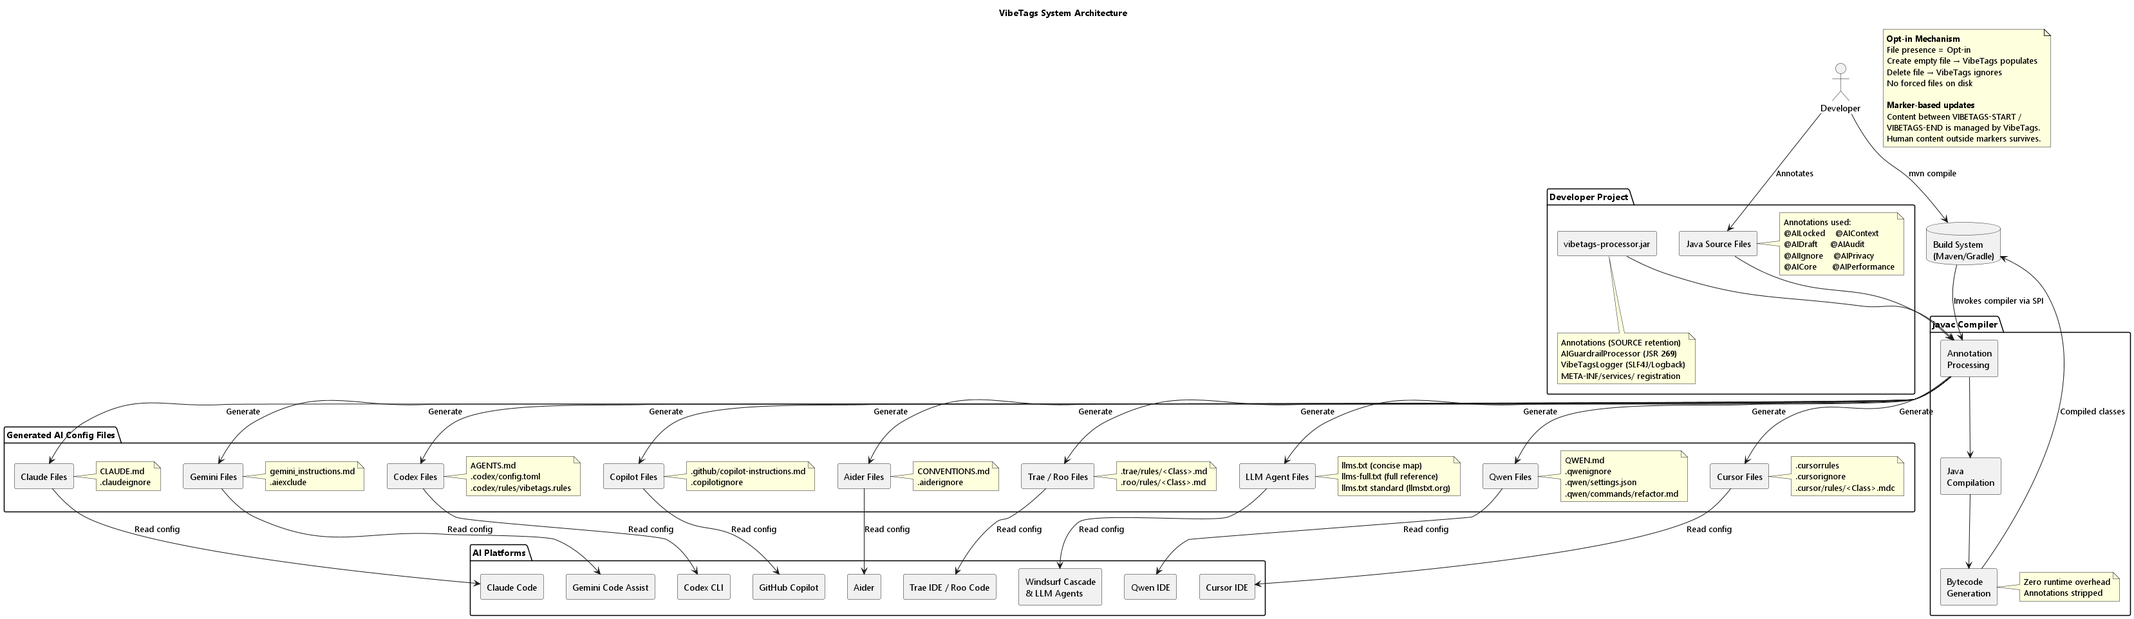
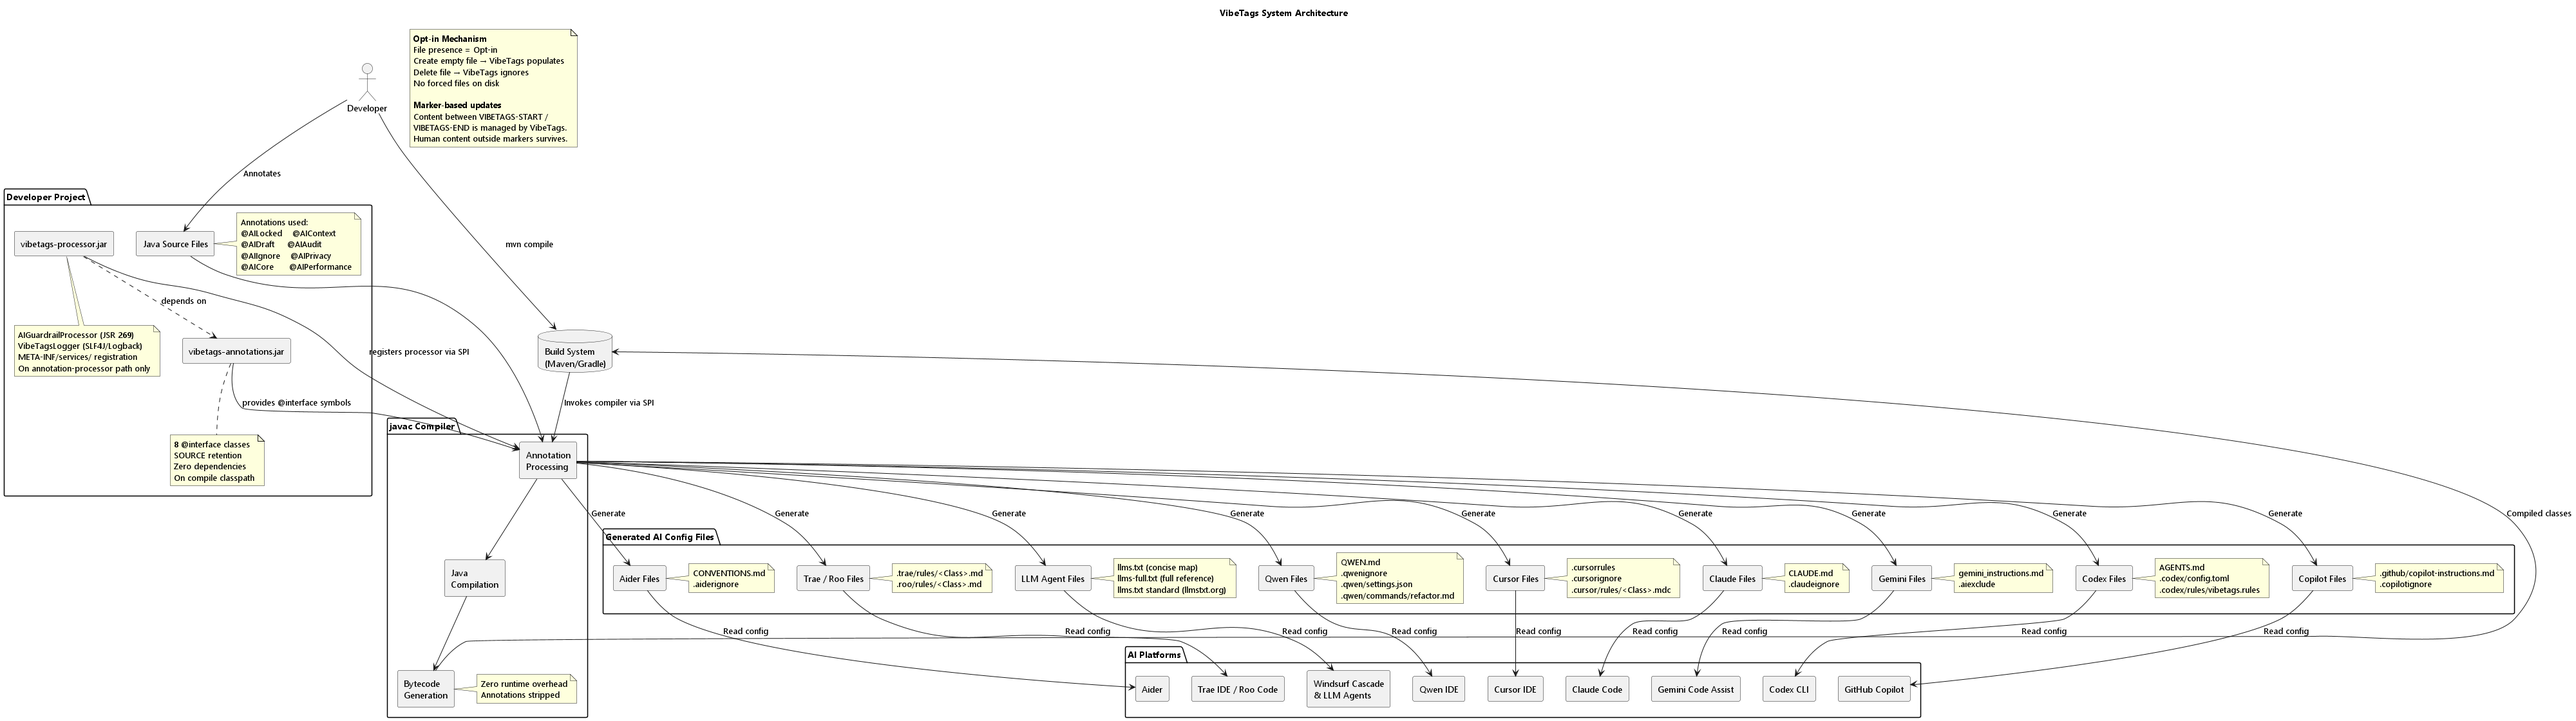
docs: update ARCHITECTURE, CONTRIBUTING, CLAUDE.md, diagrams for the split
The 0.6.0 commit changed the artifact layout but only updated the consumer-
facing docs (README, CHANGELOG, RELEASING, WORKFLOW). This commit covers
the project-internal documentation that describes the codebase structure.

- docs/ARCHITECTURE.md: new "Published Artifacts" section right after the
  overview; Key Components prose now names the jar each package ships in;
  directory tree, Maven/Gradle build-flow boxes, dependency tables, and
  Build Commands all updated to show the annotations -> processor -> BOM
  install order.
- docs/CONTRIBUTING.md: project-structure tree shows the three modules
  and the build-order note.
- CLAUDE.md (project-level): replaces "two independent subprojects" with
  the full module list and build order; expands the install snippet to
  walk through the dependency chain.
- docs/diagrams/component-diagram.puml: splits the single jar box into
  vibetags-annotations.jar (compile classpath) and vibetags-processor.jar
  (annotation-processor path), with a "depends on" arrow and updated
  feed-into-Annotation-Processing edges.
- docs/diagrams/class-diagram.puml: package boxes now include the artifact
  name so the package-to-jar mapping is visible at a glance.
- Both PNGs regenerated with the local plantuml.jar.

CONCEPT_PLUGIN.md left as-is — it is forward-looking commentary about a
hypothetical plugin/CLI migration, not a description of today's layout.

diff --git a/docs/ARCHITECTURE.md b/docs/ARCHITECTURE.md
@@ -17,6 +17,18 @@ Developer Annotations → javac + Annotation Processor → AI Config Files
 - **Multi-platform**: Generates configs for 12+ AI platforms simultaneously (Cursor, Claude, Gemini, Codex, Copilot, Qwen, Aider, Trae, Roo, Windsurf via llms.txt, and more)
 - **Version stamped**: Every file includes VibeTags version + GitHub URL
 
+### Published Artifacts
+
+As of 0.6.0, VibeTags ships as three coordinates on Maven Central:
+
+| Artifact | Purpose | Goes on | Depends on |
+|---|---|---|---|
+| `se.deversity.vibetags:vibetags-annotations` | The 8 `@interface` classes | Consumer's compile classpath | nothing |
+| `se.deversity.vibetags:vibetags-processor` | `AIGuardrailProcessor` + `VibeTagsLogger` (slf4j/logback) | Annotation-processor path only | `vibetags-annotations` |
+| `se.deversity.vibetags:vibetags-bom` (pom-only) | Manages versions of the two jars above | `<dependencyManagement>` import / Gradle `platform(...)` | — |
+
+The split keeps `slf4j` / `logback` (the processor's internal logging deps) off the consumer's `compileClasspath`. Existing 0.5.x setups that pin only `vibetags-processor` continue to work — the processor declares `vibetags-annotations` as a regular compile dependency so the annotation classes are still resolved transitively. New projects should adopt the split layout shown in the README's Installation section.
+
 ## Table of Contents
 
 - [System Architecture](#system-architecture)
@@ -62,7 +74,7 @@ Developer Annotations → javac + Annotation Processor → AI Config Files
 
 **Key Components:**
 
-**Annotations** (`se.deversity.vibetags.annotations`):
+**Annotations** — package `se.deversity.vibetags.annotations`, jar `vibetags-annotations`:
 - `@AILocked` - Prevents AI modifications (reason: String)
 - `@AIContext` - Guides AI behavior (focus: String, avoids: String)
 - `@AIDraft` - Requests AI implementation (instructions: String)
@@ -72,11 +84,12 @@ Developer Annotations → javac + Annotation Processor → AI Config Files
 - `@AICore` - Marks sensitive core logic; AI must change with extreme caution (sensitivity: String, note: String)
 - `@AIPerformance` - Hot-path constraint; AI must not introduce O(n²) complexity (constraint: String)
 
-**Processor** (`se.deversity.vibetags.processor`):
+**Processor** — package `se.deversity.vibetags.processor`, jar `vibetags-processor`:
 - `AIGuardrailProcessor` - Extends `AbstractProcessor` (JSR 269)
 - `VibeTagsLogger` - SLF4J/Logback file logger, configurable via `-Avibetags.log.*`
 - `@SupportedAnnotationTypes("*")` - Processes all annotations
 - `@SupportedSourceVersion(RELEASE_11)` - Java 11+ support
+- Compile-scope dependency on `vibetags-annotations` so the processor code can reference annotation classes (e.g. `roundEnv.getElementsAnnotatedWith(AILocked.class)`) and so legacy single-coordinate consumers still get the annotations transitively.
 
 ---
 
@@ -455,7 +468,9 @@ When proposing edits or writing code for the following files, you MUST perform a
 ```
 mvn clean compile
     ↓
-Resolve vibetags-processor dependency (provided scope)
+Resolve vibetags-annotations on compile classpath
+   + vibetags-processor on annotationProcessorPaths
+   (versions supplied by vibetags-bom import)
     ↓
 javac discovers processor via META-INF/services/
     ↓
@@ -477,7 +492,9 @@ Compilation complete
 ```
 gradle clean build
     ↓
-Resolve vibetags-processor (compileOnly + annotationProcessor)
+Resolve vibetags-annotations (compileOnly)
+   + vibetags-processor (annotationProcessor)
+   (versions supplied by platform('vibetags-bom'))
     ↓
 javac with explicit annotation processor path
     ↓
@@ -496,35 +513,43 @@ Build complete
 
 ```
 vibetags/
-├── vibetags/                          # Core annotation processor library
+├── vibetags-annotations/              # Published as se.deversity.vibetags:vibetags-annotations
+│   ├── src/main/java/se/deversity/vibetags/annotations/
+│   │   ├── AILocked.java
+│   │   ├── AIContext.java
+│   │   ├── AIDraft.java
+│   │   ├── AIAudit.java
+│   │   ├── AIIgnore.java
+│   │   ├── AIPrivacy.java
+│   │   ├── AICore.java
+│   │   └── AIPerformance.java
+│   ├── pom.xml
+│   └── build.gradle
+│
+├── vibetags/                          # Published as se.deversity.vibetags:vibetags-processor
 │   ├── src/
 │   │   ├── main/
-│   │   │   ├── java/se/deversity/vibetags/
-│   │   │   │   ├── annotations/       # Annotation definitions (SOURCE retention)
-│   │   │   │   │   ├── AILocked.java
-│   │   │   │   │   ├── AIContext.java
-│   │   │   │   │   ├── AIDraft.java
-│   │   │   │   │   ├── AIAudit.java
-│   │   │   │   │   ├── AIIgnore.java
-│   │   │   │   │   └── AIPrivacy.java
-│   │   │   │   └── processor/         # JSR 269 annotation processor
-│   │   │   │       └── AIGuardrailProcessor.java
+│   │   │   ├── java/se/deversity/vibetags/processor/
+│   │   │   │   ├── AIGuardrailProcessor.java     # JSR 269 annotation processor
+│   │   │   │   └── VibeTagsLogger.java           # SLF4J/Logback file logger
 │   │   │   └── resources/META-INF/services/
 │   │   │       └── javax.annotation.processing.Processor
-│   │   └── test/                      # Unit + integration tests
-│   │       ├── annotations/
-│   │       │   └── AnnotationDefinitionsTest.java (25 tests)
+│   │   └── test/                      # Unit + integration tests (317 tests total)
 │   │       └── processor/
-│   │           ├── AIGuardrailProcessorTest.java (3 tests)
-│   │           ├── AIGuardrailProcessorUnitTest.java (20 tests)
-│   │           ├── AIGuardrailProcessorProcessTest.java (25 tests)
-│   │           ├── AIIgnoreProcessorUnitTest.java (11 tests)
-│   │           ├── AIPrivacyProcessorTest.java (15 tests)
-│   │           ├── QwenProcessorUnitTest.java (15 tests)
-│   │           ├── AnnotationProcessorEndToEndTest.java (28 tests)
-│   │           └── QwenEndToEndTest.java (19 tests)
-│   ├── pom.xml                        # Maven build config
+│   │           ├── AnnotationDefinitionsTest.java
+│   │           ├── AIGuardrailProcessorTest.java
+│   │           ├── AIGuardrailProcessorUnitTest.java
+│   │           ├── AIGuardrailProcessorProcessTest.java
+│   │           ├── AIIgnoreProcessorUnitTest.java
+│   │           ├── AIPrivacyProcessorTest.java
+│   │           ├── QwenProcessorUnitTest.java
+│   │           ├── AnnotationProcessorEndToEndTest.java
+│   │           └── QwenEndToEndTest.java
+│   ├── pom.xml                        # Maven build config (depends on vibetags-annotations)
 │   └── build.gradle                   # Gradle build config
+│
+├── vibetags-bom/                      # Published as se.deversity.vibetags:vibetags-bom (pom-only)
+│   └── pom.xml                        # <dependencyManagement> for vibetags-annotations + vibetags-processor
 │
 ├── example/                           # Demo e-commerce application
 │   ├── src/main/java/com/example/
@@ -811,22 +836,33 @@ vibetags-processor/     # Legacy wrapper (deprecated)
 
 ## Dependencies
 
+### vibetags-annotations
+
+| Dependency | Scope | Purpose |
+|---|---|---|
+| (none) | — | Pure `@interface` declarations on top of `java.lang.annotation.*` |
+
 ### vibetags-processor
 
 | Dependency | Scope | Purpose |
 |---|---|---|
+| `se.deversity.vibetags:vibetags-annotations` | compile | Annotation classes referenced symbolically by the processor (`AILocked.class`, …) and surfaced transitively to legacy single-coordinate consumers |
+| `org.slf4j:slf4j-api` | compile | Processor-internal logging API |
+| `ch.qos.logback:logback-classic` | compile | File appender that writes `vibetags.log` |
 | `javax.annotation.processing.*` | JDK (compile) | JSR 269 API |
 | `javax.lang.model.*` | JDK (compile) | Language model API |
 | `org.junit.jupiter` | test | Unit testing |
 | `org.mockito` | test | Mocking framework |
 
-### example
+### example (recommended layout)
 
 | Dependency | Scope | Purpose |
 |---|---|---|
-| `se.deversity.vibetags:vibetags-processor` | provided / compileOnly | Annotations + processor |
+| `se.deversity.vibetags:vibetags-bom` | `<scope>import</scope>` / `platform(...)` | Manages the two versions below |
+| `se.deversity.vibetags:vibetags-annotations` | compile / `compileOnly` | Annotation symbols for `javac` |
+| `se.deversity.vibetags:vibetags-processor` | `<annotationProcessorPaths>` / `annotationProcessor` | Processor on the AP path only — keeps slf4j/logback off compileClasspath |
 
-**Note:** Annotations have zero runtime footprint — completely stripped during compilation.
+**Note:** Annotations have zero runtime footprint — completely stripped during compilation. The split exists purely to reduce the consumer's compile-time dependency surface.
 
 ---
 
@@ -835,14 +871,16 @@ vibetags-processor/     # Legacy wrapper (deprecated)
 ### Maven
 
 ```bash
-# Build library
-cd vibetags && mvn clean install
+# Build library — order matters: annotations first, then processor, then BOM
+cd vibetags-annotations && mvn install
+cd ../vibetags && mvn clean install
+cd ../vibetags-bom && mvn install
 
 # Build example (generates AI config files)
-cd example && mvn clean compile
+cd ../example && mvn clean compile
 
 # Run tests
-cd vibetags && mvn test
+cd ../vibetags && mvn test
 
 # Run integration tests
 cd vibetags && mvn test -Drun.integration.tests=true
@@ -851,14 +889,16 @@ cd vibetags && mvn test -Drun.integration.tests=true
 ### Gradle
 
 ```bash
-# Build library
-cd vibetags && gradle clean build publishToMavenLocal
+# Build library — annotations first, then processor; BOM is Maven-only
+cd vibetags-annotations && gradle clean build publishToMavenLocal
+cd ../vibetags && gradle clean build publishToMavenLocal
+cd ../vibetags-bom && mvn install   # Gradle reads it from mavenLocal()
 
 # Build example (generates AI config files)
-cd example && gradle clean build
+cd ../example && gradle clean build
 
 # Run tests
-cd vibetags && gradle test
+cd ../vibetags && gradle test
 ```
 
 ---

diff --git a/CLAUDE.md b/CLAUDE.md
@@ -6,9 +6,14 @@ This file provides guidance to Claude Code (claude.ai/code) when working with co
 
 VibeTags is a **compile-time Java annotation processor** (`se.deversity.vibetags.processor.AIGuardrailProcessor`) that generates AI platform-specific guardrail configuration files from Java annotations. Zero runtime overhead — all annotations use `RetentionPolicy.SOURCE`.
 
-The repo has two independent Maven/Gradle subprojects:
-- `vibetags/` — the annotation processor library (the thing you're developing)
-- `example/` — a demo e-commerce app that consumes the library
+The repo has these independent Maven (and where noted, Gradle) subprojects:
+- `vibetags-annotations/` — the 8 `@interface` classes, zero deps. Goes on the consumer's compile classpath. **Build first** — `vibetags/` depends on it.
+- `vibetags/` — the annotation processor itself (`AIGuardrailProcessor` + `VibeTagsLogger`). Pulls in slf4j/logback. Goes on the consumer's annotation-processor path only.
+- `vibetags-bom/` — pom-only BOM that manages `vibetags-annotations` + `vibetags-processor` versions. Maven only; Gradle consumers read it via `mavenLocal()` / `platform(...)`.
+- `example/` — a demo e-commerce app that consumes the library through the BOM (annotations on compile, processor on AP path).
+- `load-tests/` — standalone benchmark harness; pins `<processor.version>` directly (intentional — cross-version comparison is the wrong workload for a BOM).
+
+Build order matters: `vibetags-annotations` → `vibetags` → `vibetags-bom` → `example` (or `load-tests`). CI installs them in this order; do the same locally.
 
 ## Build Commands
 
@@ -17,9 +22,19 @@ All commands must be run from the correct subdirectory. The processor uses `Path
 ### Build and install the library
 
 ```bash
-cd vibetags
+# 1. Annotations first — vibetags/ depends on it
+cd vibetags-annotations
+mvn install                                # Maven
+gradle clean build publishToMavenLocal     # Gradle
+
+# 2. Then the processor
+cd ../vibetags
 mvn clean install                          # Maven
 gradle clean build publishToMavenLocal     # Gradle
+
+# 3. Then the BOM (Maven only — Gradle reads it via mavenLocal)
+cd ../vibetags-bom
+mvn install
 ```
 
 ### Run tests

diff --git a/docs/CONTRIBUTING.md b/docs/CONTRIBUTING.md
@@ -91,19 +91,23 @@ chore: update dependency versions
 
 ```
 vibetags/                          # Root
-├── vibetags/                      # Core annotation processor library
-│   ├── src/main/java/
-│   │   ├── annotations/           # @AILocked, @AIContext, @AIDraft, @AIAudit, @AIIgnore, @AIPrivacy
-│   │   └── processor/             # AIGuardrailProcessor, VibeTagsLogger
-│   └── src/test/java/             # Unit, integration, and end-to-end tests
+├── vibetags-annotations/          # Published as se.deversity.vibetags:vibetags-annotations
+│   └── src/main/java/
+│       └── annotations/           # @AILocked, @AIContext, @AIDraft, @AIAudit, @AIIgnore, @AIPrivacy, @AICore, @AIPerformance
+├── vibetags/                      # Published as se.deversity.vibetags:vibetags-processor
+│   ├── src/main/java/processor/   # AIGuardrailProcessor, VibeTagsLogger
+│   └── src/test/java/             # Unit, integration, and end-to-end tests (depends on vibetags-annotations)
+├── vibetags-bom/                  # Published as se.deversity.vibetags:vibetags-bom (pom-only)
 ├── example/                       # Example e-commerce application
-│   └── src/main/java/             # Demonstrates real-world annotation usage
+│   └── src/main/java/             # Demonstrates real-world annotation usage; consumes via the BOM
 ├── load-tests/                    # Stress test and benchmark harness
 │   └── src/
 │       ├── main/java/             # JMH benchmarks
 │       └── test/java/             # Stress + concurrency tests
 └── .github/workflows/             # CI/CD pipelines
 ```
+
+**Build order:** `vibetags-annotations` → `vibetags` → `vibetags-bom` → `example` (or `load-tests`). The processor depends on the annotations module at compile time.
 
 ## Adding a New Annotation
 
